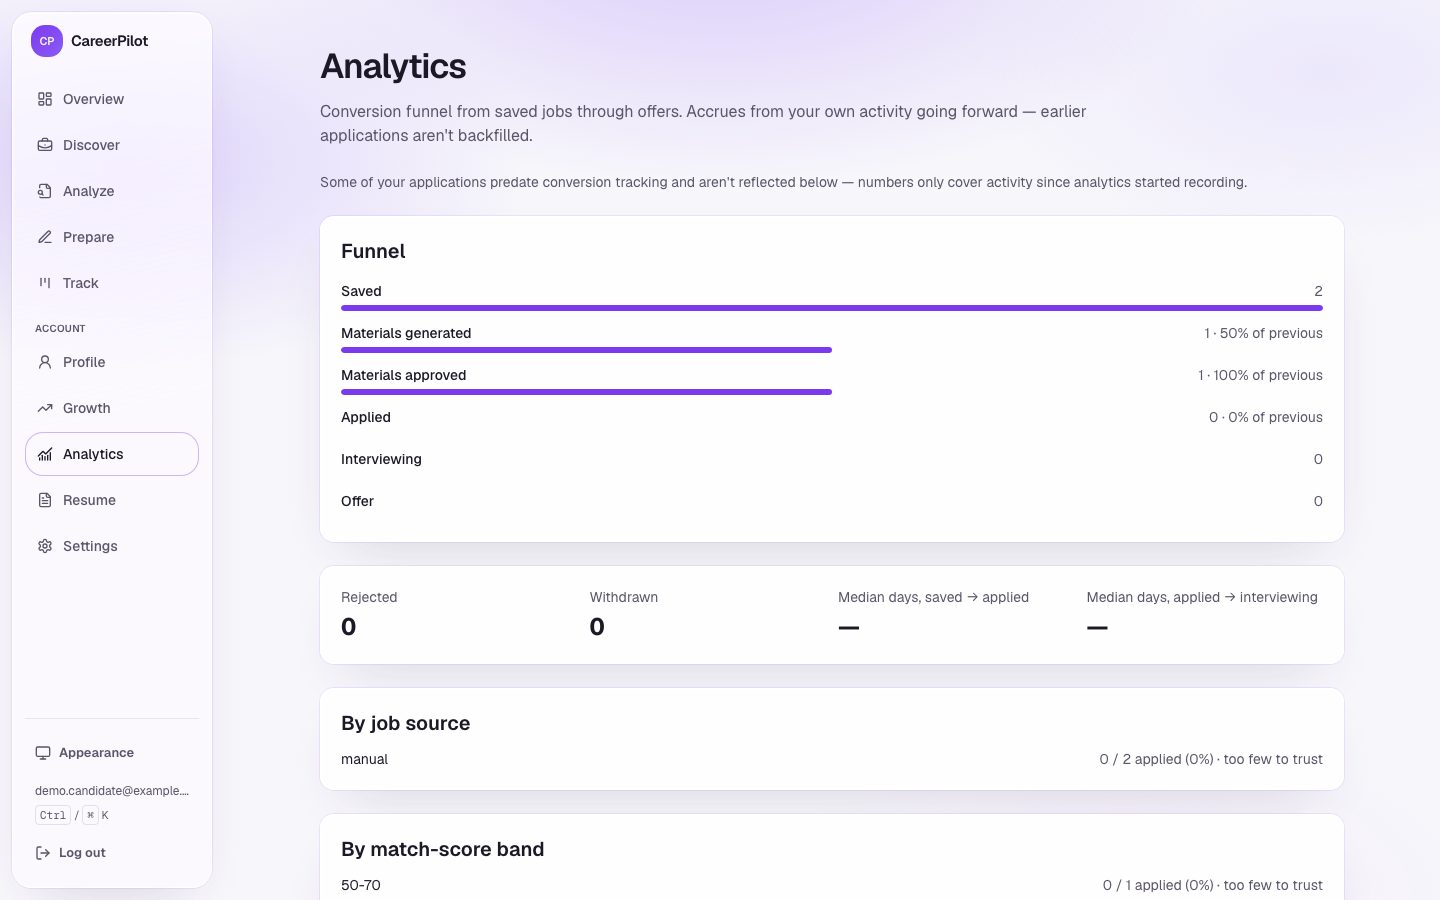
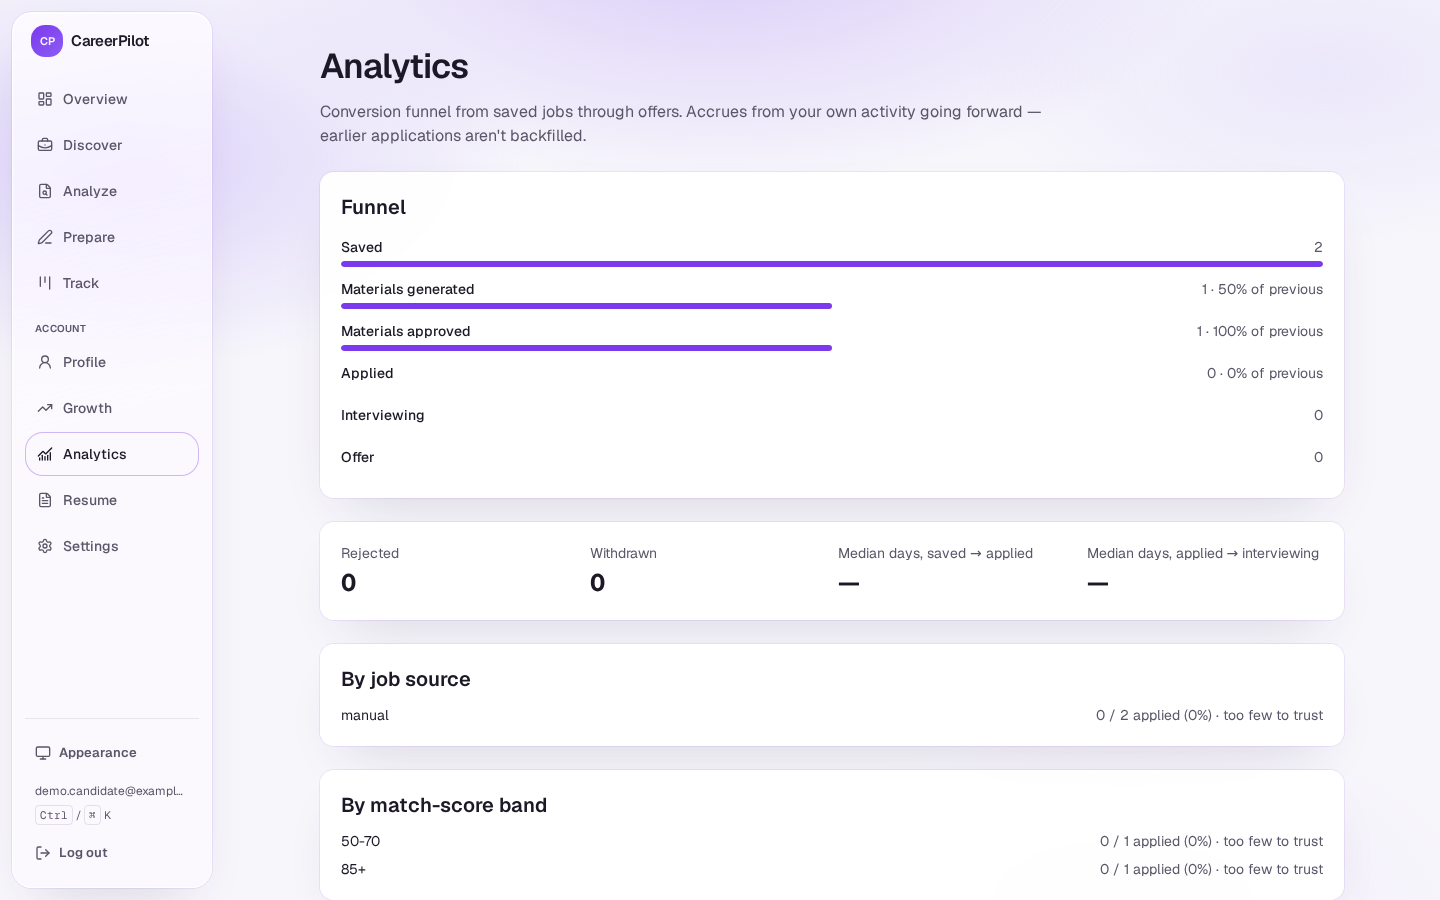
Fix owner-scoped Track, stale score summaries and synthetic showcase (#114)
## Scope
- Track lists only the signed-in user's bookmarks, tracker rows, and
application packages; unrelated shared catalog jobs no longer appear.
- Track, dashboard high-match counts, and Analytics score bands reject
stale scores via the canonical stored-Fit freshness checker. Historical
pipeline events/status are preserved.
- Fictional showcase jobs are visibly labeled on Discover
cards/previews, Analyze, and Track, without labeling unrelated real
jobs.
- Backend cross-user/staleness tests and frontend disclosure tests
added.

## Release gates
- [x] Both verify jobs and full-history Gitleaks passed on final commit
- [x] Recaptured Discover, cited Python Evidence, separate unblurred
Docker gap, Track and Analytics against a brand-new isolated synthetic
DB; visually inspected five committed PNGs
- [ ] Human review of current screenshots and copy before LinkedIn post

No production DB, accounts, or v1.0.0 tag touched.

---------

diff --git a/frontend/src/pages/ApplicationsPage.tsx b/frontend/src/pages/ApplicationsPage.tsx
@@ -11,6 +11,7 @@ import { api, ApiClientError } from "../lib/api";
 import { useAuth } from "../lib/auth";
 import { googleCalendarUrl } from "../lib/calendar";
 import { cn } from "../lib/cn";
+import { isSyntheticShowcasePosting } from "../lib/showcase";
 import { readTrackerView, saveTrackerView, type TrackerView } from "../lib/tracker-view";
 import type { ApplicationListItem, TrackerStatus } from "../lib/types";
 
@@ -114,6 +115,9 @@ function TrackerCard({
         <div className="min-w-0">
           <h2 className="wrap-anywhere font-display text-base font-semibold leading-snug">{item.title}</h2>
           <p className="wrap-anywhere text-sm text-muted-foreground">{item.company}</p>
+          {isSyntheticShowcasePosting(item.job_id, item.company) ? (
+            <span className="mt-1 inline-block text-xs font-semibold text-warning">Synthetic demo · not a real posting</span>
+          ) : null}
           <p className="mt-1 text-xs text-muted-foreground">Updated {formatUpdated(item.updated_at)}</p>
         </div>
         <MatchBadge
@@ -311,7 +315,7 @@ export function ApplicationsPage() {
       ) : items.length === 0 ? (
         <EmptyState
           title="No applications yet"
-          description="Discovered jobs will appear here. Open a job to review materials, then set a tracking status when you are ready."
+          description="Save a job in Discover, prepare application materials, or start tracking a role to see it here."
           action={
             <Link to="/jobs" className="btn-primary">
               Browse jobs

diff --git a/frontend/src/pages/JobDetailPage.tsx b/frontend/src/pages/JobDetailPage.tsx
@@ -26,6 +26,7 @@ import { api, ApiClientError } from "../lib/api";
 import { getJobsNavIds, jobsListPath } from "../lib/jobs-workspace";
 import { topMatchPercentileLabel } from "../lib/match-percentile";
 import { chipLabel } from "../lib/search-intent";
+import { isSyntheticShowcasePosting } from "../lib/showcase";
 import { saveSelectedJobId } from "../lib/session";
 import type { InterviewPrep, Job, JobIntelligence, JobRequirementProfile, MatchEvidence, MatchScore } from "../lib/types";
 
@@ -390,6 +391,9 @@ export function JobDetailPage() {
             </p>
             <div className="mt-3 flex flex-wrap items-center gap-2">
               <StatusBadge status={job.status} />
+              {isSyntheticShowcasePosting(job.id, job.company) ? (
+                <span className="status-pill border border-warning/40 bg-warning/10 text-warning">Synthetic demo · not a real posting</span>
+              ) : null}
               <SourceBadge source={job.source} url={job.url} sourceUrl={job.source_url} />
               {job.content_status ? (
                 <span className="text-xs text-muted-foreground">Posting: {job.content_status}</span>

diff --git a/frontend/src/components/JobPreviewPanel.tsx b/frontend/src/components/JobPreviewPanel.tsx
@@ -7,6 +7,7 @@ import { Glass } from "./ui/glass";
 import { ScoreOrb } from "./signature/ScoreOrb";
 import { formatJobCardMeta } from "../lib/job-meta";
 import { chipLabel } from "../lib/search-intent";
+import { isSyntheticShowcasePosting } from "../lib/showcase";
 import { cn } from "../lib/cn";
 import type { Job, MatchScore } from "../lib/types";
 
@@ -47,6 +48,9 @@ export function JobPreviewPanel({
           </p>
           <div className="mt-3 flex flex-wrap items-center gap-2">
             <StatusBadge status={job.status} />
+            {isSyntheticShowcasePosting(job.id, job.company) ? (
+              <span className="status-pill border border-warning/40 bg-warning/10 text-warning">Synthetic demo · not a real posting</span>
+            ) : null}
             <SourceBadge source={job.source} url={job.url} sourceUrl={job.source_url} />
             {scoutedTimeAgo(job.date_scraped) ? (
               <span className="text-xs text-muted-foreground">{scoutedTimeAgo(job.date_scraped)}</span>

diff --git a/frontend/src/components/JobCard.tsx b/frontend/src/components/JobCard.tsx
@@ -4,6 +4,7 @@ import { scoutedTimeAgo, SourceBadge } from "./SourceBadge";
 import { cn } from "../lib/cn";
 import { formatJobCardMeta } from "../lib/job-meta";
 import { chipLabel } from "../lib/search-intent";
+import { isSyntheticShowcasePosting } from "../lib/showcase";
 import type { Job, MatchScore } from "../lib/types";
 
 export { formatJobCardMeta } from "../lib/job-meta";
@@ -89,6 +90,9 @@ export function JobCard({
           </button>
           <div className="mt-2 flex flex-wrap items-center gap-2 pl-12">
             <SourceBadge source={job.source} url={job.url} sourceUrl={job.source_url} />
+            {isSyntheticShowcasePosting(job.id, job.company) ? (
+              <span className="status-pill border border-warning/40 bg-warning/10 text-warning">Synthetic demo · not a real posting</span>
+            ) : null}
             {seenAgo ? <span className="text-xs text-muted-foreground">{seenAgo}</span> : null}
             <MatchBadge
               score={match?.overall_score}

diff --git a/frontend/src/pages/ApplicationsPage.test.tsx b/frontend/src/pages/ApplicationsPage.test.tsx
@@ -105,6 +105,16 @@ describe("ApplicationsPage", () => {
     expect(screen.queryByText(/62%/)).not.toBeInTheDocument();
   });
 
+  it("discloses synthetic roles in Track without labeling ordinary saved jobs", async () => {
+    vi.mocked(api.listApplications).mockResolvedValue([
+      { job_id: "showcase-harborline-intern", title: "Demo intern", company: "Harborline Analytics", tracker_status: "saved" },
+      { job_id: "normal-job", title: "Real intern", company: "Harborline Analytics", tracker_status: "saved" },
+    ]);
+    renderTracker();
+    expect(await screen.findByText("Demo intern")).toBeInTheDocument();
+    expect(screen.getAllByText(/Synthetic demo · not a real posting/)).toHaveLength(1);
+  });
+
   it("does not show follow-up calendar actions when no reminder date is set", async () => {
     renderTracker();
     await screen.findByText(/Extra Long Title/i);

diff --git a/frontend/src/components/JobPreviewPanel.test.tsx b/frontend/src/components/JobPreviewPanel.test.tsx
@@ -33,6 +33,17 @@ describe("JobPreviewPanel metadata", () => {
     expect(screen.queryByText("Remote · Remote · Internship")).not.toBeInTheDocument();
   });
 
+  it("discloses the synthetic demo without labeling a real job from the same company", () => {
+    const { rerender } = renderPreview({ id: "showcase-harborline-intern" });
+    expect(screen.getByText(/Synthetic demo · not a real posting/)).toBeInTheDocument();
+    rerender(
+      <MemoryRouter>
+        <JobPreviewPanel job={job({ id: "real-job" })} />
+      </MemoryRouter>,
+    );
+    expect(screen.queryByText(/Synthetic demo · not a real posting/)).not.toBeInTheDocument();
+  });
+
   it("keeps a city location next to a different work mode", () => {
     renderPreview({ location: "San Francisco, CA", work_mode: "hybrid" });
     expect(screen.getByText("San Francisco, CA · Hybrid")).toBeInTheDocument();

diff --git a/frontend/src/components/JobCard.test.tsx b/frontend/src/components/JobCard.test.tsx
@@ -65,6 +65,13 @@ describe("JobCard", () => {
     expect(onSelect).toHaveBeenCalledTimes(1);
   });
 
+  it("marks only the reserved fictional showcase postings as synthetic", () => {
+    const { rerender } = render(<JobCard job={job({ id: "showcase-harborline-intern" })} />);
+    expect(screen.getByText(/Synthetic demo · not a real posting/)).toBeInTheDocument();
+    rerender(<JobCard job={job({ id: "real-harborline-job" })} />);
+    expect(screen.queryByText(/Synthetic demo · not a real posting/)).not.toBeInTheDocument();
+  });
+
   it("marks the select control as pressed when the card is selected", () => {
     render(
       <JobCard

diff --git a/frontend/src/pages/JobDetailPage.test.tsx b/frontend/src/pages/JobDetailPage.test.tsx
@@ -218,6 +218,12 @@ describe("JobDetailPage", () => {
     expect(screen.queryByText(/No live posting check has been recorded/)).not.toBeInTheDocument();
   });
 
+  it("discloses the fictional showcase posting in Analyze", async () => {
+    mockJob({ id: "showcase-harborline-intern" });
+    renderJob();
+    expect(await screen.findByText(/Synthetic demo · not a real posting/)).toBeInTheDocument();
+  });
+
   it("shows Remote once when location and work mode are both Remote", async () => {
     mockJob({ location: "Remote" });
     vi.mocked(api.getRequirementProfile).mockResolvedValue(

diff --git a/frontend/src/lib/showcase.ts b/frontend/src/lib/showcase.ts
@@ -1,0 +1,9 @@
+/** Reserved fixture identities only. Never infer that an arbitrary Manual posting is fictional. */
+const SHOWCASE_COMPANIES: Record<string, string> = {
+  "showcase-harborline-intern": "Harborline Analytics",
+  "showcase-cedar-backend": "Cedar & Pine Robotics",
+};
+
+export function isSyntheticShowcasePosting(jobId: string | null | undefined, company: string): boolean {
+  return Boolean(jobId && SHOWCASE_COMPANIES[jobId] === company);
+}

diff --git a/tests/test_application_tracker.py b/tests/test_application_tracker.py
@@ -13,6 +13,7 @@ from backend.db.models import (
     JobIntelligenceRecord,
     JobRecord,
     MatchScoreRecord,
+    SavedJobRecord,
     TargetPreference,
 )
 from backend.schemas.schemas import ApplicationTrackerUpdate
@@ -59,7 +60,7 @@ def test_tracker_get_is_read_only(isolated_session) -> None:
     assert item.status is None
     assert isolated_session.query(ApplicationTrackerRecord).count() == 0
     listed = list_applications(isolated_session, TEST_USER_ID)
-    assert listed[0].tracker_status is None
+    assert listed == []  # An unsaved global catalog job is not an application.
     assert isolated_session.query(ApplicationTrackerRecord).count() == 0
 
 
@@ -84,6 +85,7 @@ def test_tracker_list_includes_verified_fit_metadata_without_leaking_other_users
         )
     )
     isolated_session.commit()
+    update_tracking(isolated_session, job.public_id, ApplicationTrackerUpdate(status="saved"), TEST_USER_ID)
     owned = list_applications(isolated_session, TEST_USER_ID)[0]
     assert owned.score_kind == "verified"
     assert owned.match_score == pytest.approx(96.3)
@@ -92,9 +94,73 @@ def test_tracker_list_includes_verified_fit_metadata_without_leaking_other_users
     assert owned.confidence_level == "medium"
 
     ensure_user(isolated_session, TEST_USER_ID + 1)
-    other = list_applications(isolated_session, TEST_USER_ID + 1)[0]
-    assert other.match_score is None
-    assert other.score_kind is None
+    other = list_applications(isolated_session, TEST_USER_ID + 1)
+    assert other == []  # Neither another user's job nor their match is in Track.
+
+
+def test_tracker_lists_only_owner_saved_tracked_or_prepared_jobs(isolated_session) -> None:
+    from backend.services.saved_job_service import save_job
+
+    ensure_user(isolated_session, TEST_USER_ID)
+    ensure_user(isolated_session, TEST_USER_ID + 1)
+    global_job = _job(isolated_session, public_id="catalog-only")
+    saved_job = _job(isolated_session, public_id="saved-only")
+    tracked_job = _job(isolated_session, public_id="tracked-only")
+    package_job = _job(isolated_session, public_id="package-only")
+    someone_elses_job = _job(isolated_session, public_id="someone-elses-job")
+    save_job(isolated_session, TEST_USER_ID, saved_job.public_id)
+    update_tracking(
+        isolated_session, tracked_job.public_id,
+        ApplicationTrackerUpdate(status="applied"), TEST_USER_ID,
+    )
+    isolated_session.add(
+        ApplicationPackageRecord(
+            job_id=package_job.id, user_id=TEST_USER_ID,
+            approval_status="draft", tailored_bullets=[],
+            source_traceability_notes=[],
+        )
+    )
+    isolated_session.add(
+        SavedJobRecord(job_id=someone_elses_job.id, user_id=TEST_USER_ID + 1)
+    )
+    isolated_session.commit()
+
+    owned = list_applications(isolated_session, TEST_USER_ID)
+    assert {item.job_id for item in owned} == {
+        saved_job.public_id, tracked_job.public_id, package_job.public_id
+    }
+    assert global_job.public_id not in {item.job_id for item in owned}
+    other = list_applications(isolated_session, TEST_USER_ID + 1)
+    assert [item.job_id for item in other] == [someone_elses_job.public_id]
+    assert list_applications(isolated_session, TEST_USER_ID + 2) == []
+
+
+def test_tracker_and_dashboard_hide_stale_scores_without_changing_application_status(isolated_session) -> None:
+    from backend.services.analysis_service import StoredScoreNotFoundError, get_stored_match_score
+
+    job = _job(isolated_session, public_id="stale-track-score")
+    candidate = _candidate(isolated_session)
+    update_tracking(isolated_session, job.public_id, ApplicationTrackerUpdate(status="saved"), TEST_USER_ID)
+    match = MatchScoreRecord(
+        job_id=job.id, candidate_id=candidate.id,
+        overall_score=96.3, skill_score=100.0, matched_skills=["Python"],
+        partial_matches=[], missing_skills=[], recommendation="apply",
+        rationale="Based on an older profile.", score_kind="verified",
+        candidate_fingerprint="outdated-resume-fingerprint",
+    )
+    isolated_session.add(match)
+    isolated_session.commit()
+
+    # The canonical stored-score API rejects the same stale record.
+    with pytest.raises(StoredScoreNotFoundError):
+        get_stored_match_score(isolated_session, job.public_id, TEST_USER_ID)
+
+    item = list_applications(isolated_session, TEST_USER_ID)[0]
+    assert item.tracker_status == "saved"
+    assert item.match_score is None
+    assert item.score_kind is None
+    assert item.recommendation is None
+    assert get_dashboard_summary(isolated_session, TEST_USER_ID).high_matches == 0
 
 
 def test_tracker_missing_job_404(isolated_session) -> None:

diff --git a/backend/services/application_tracker_service.py b/backend/services/application_tracker_service.py
@@ -20,6 +20,7 @@ from backend.db.models import (
     Candidate,
     JobRecord,
     MatchScoreRecord,
+    SavedJobRecord,
     TargetPreference,
 )
 from backend.schemas.schemas import (
@@ -30,6 +31,7 @@ from backend.schemas.schemas import (
     TrackerStatus,
 )
 from backend.services.analytics_service import record_event
+from backend.services.analysis_service import _stored_score_is_stale
 
 logger = logging.getLogger(__name__)
 
@@ -247,31 +249,46 @@ def get_reminder_export_details(db: Session, job_id: str, user_id: int) -> Remin
 
 
 def list_applications(db: Session, user_id: int) -> list[ApplicationListItem]:
-    """Read-only list of stored jobs with optional tracker/package/score fields."""
+    """Read-only owner-scoped pipeline, not the global Discover catalog.
 
-    jobs = db.query(JobRecord).order_by(JobRecord.id.desc()).all()
+    A user's saved bookmark, tracker row, or materials package qualifies a
+    shared job for Track. A score alone does not mean the user saved or applied.
+    """
+
+    saved = db.query(SavedJobRecord).filter(SavedJobRecord.user_id == user_id).all()
+    trackers = db.query(ApplicationTrackerRecord).filter(ApplicationTrackerRecord.user_id == user_id).all()
+    packages = db.query(ApplicationPackageRecord).filter(ApplicationPackageRecord.user_id == user_id).all()
+    saved_by_job = {row.job_id: row for row in saved}
+    tracker_by_job = {row.job_id: row for row in trackers}
+    package_by_job = {row.job_id: row for row in packages}
+    owned_job_ids = set(saved_by_job) | set(tracker_by_job) | set(package_by_job)
+    if not owned_job_ids:
+        return []
+
+    jobs = (
+        db.query(JobRecord)
+        .filter(JobRecord.id.in_(owned_job_ids))
+        .order_by(JobRecord.id.desc())
+        .all()
+    )
     candidate = _latest_candidate(db, user_id)
     candidate_id = candidate.id if candidate else None
     items: list[ApplicationListItem] = []
     for job in jobs:
-        tracker = (
-            db.query(ApplicationTrackerRecord)
-            .filter(ApplicationTrackerRecord.job_id == job.id, ApplicationTrackerRecord.user_id == user_id)
-            .first()
-        )
-        package = (
-            db.query(ApplicationPackageRecord)
-            .filter(ApplicationPackageRecord.job_id == job.id, ApplicationPackageRecord.user_id == user_id)
-            .first()
-        )
+        tracker = tracker_by_job.get(job.id)
+        package = package_by_job.get(job.id)
         match = _latest_match_for_job(db, job.id, candidate_id)
+        if match is not None and candidate is not None and _stored_score_is_stale(
+            db, match, job, candidate, user_id
+        ):
+            match = None
         updated_at = None
         if tracker is not None:
             updated_at = tracker.updated_at
         elif package is not None:
             updated_at = package.created_at
-        elif job.date_scraped is not None:
-            updated_at = job.date_scraped
+        elif job.id in saved_by_job:
+            updated_at = saved_by_job[job.id].created_at
         items.append(
             ApplicationListItem(
                 job_id=job.public_id,
@@ -416,7 +433,12 @@ def get_dashboard_summary(db: Session, user_id: int) -> DashboardSummary:
     candidate_id = candidate.id if candidate else None
     for job in jobs:
         match = _latest_match_for_job(db, job.id, candidate_id)
-        if match is not None and match.recommendation == "apply":
+        if (
+            match is not None
+            and candidate is not None
+            and match.recommendation == "apply"
+            and not _stored_score_is_stale(db, match, job, candidate, user_id)
+        ):
             high_matches += 1
 
     applications_saved = 0

diff --git a/backend/services/analytics_service.py b/backend/services/analytics_service.py
@@ -32,6 +32,7 @@ from backend.db.models import (
     JobRecord,
     MatchScoreRecord,
 )
+from backend.services.analysis_service import _stored_score_is_stale
 from backend.schemas.analytics import (
     FUNNEL_STAGE_LABELS,
     ApplicationAnalyticsSummary,
@@ -175,17 +176,23 @@ def build_conversion_analytics(db: Session, user_id: int) -> ApplicationAnalytic
     if saved_population and candidate is not None:
         jobs_by_band: dict[str, set[int]] = defaultdict(set)
         scores = (
-            db.query(MatchScoreRecord.job_id, MatchScoreRecord.overall_score)
+            db.query(MatchScoreRecord, JobRecord)
+            .join(JobRecord, MatchScoreRecord.job_id == JobRecord.id)
             .filter(
                 MatchScoreRecord.job_id.in_(saved_population),
                 MatchScoreRecord.candidate_id == candidate.id,
             )
             .all()
         )
-        for job_id, overall_score in scores:
-            band = _score_band_label(overall_score)
+        for match, job in scores:
+            # Mirror the canonical stored-Fit API: changing the résumé,
+            # preferences, or requirements must not leave a historical score
+            # presented as the user's current match band.
+            if _stored_score_is_stale(db, match, job, candidate, user_id):
+                continue
+            band = _score_band_label(match.overall_score)
             if band is not None:
-                jobs_by_band[band].add(job_id)
+                jobs_by_band[band].add(job.id)
         for label, _lower, _upper in _SCORE_BANDS:
             if label in jobs_by_band:
                 by_match_score_band.append(_bucket(label, applied_jobs, jobs_by_band[label]))
